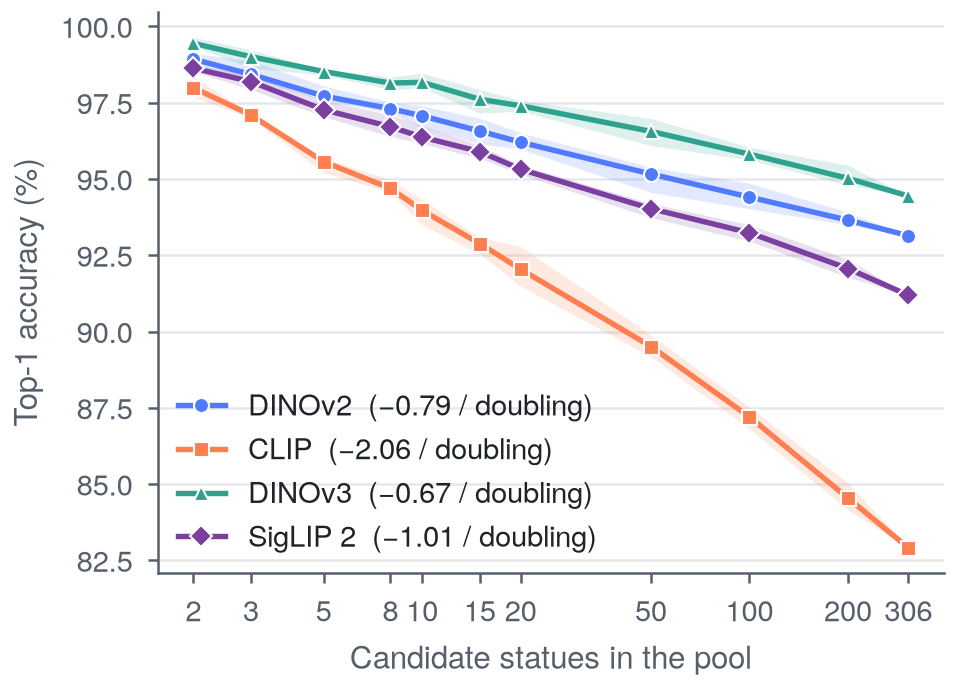
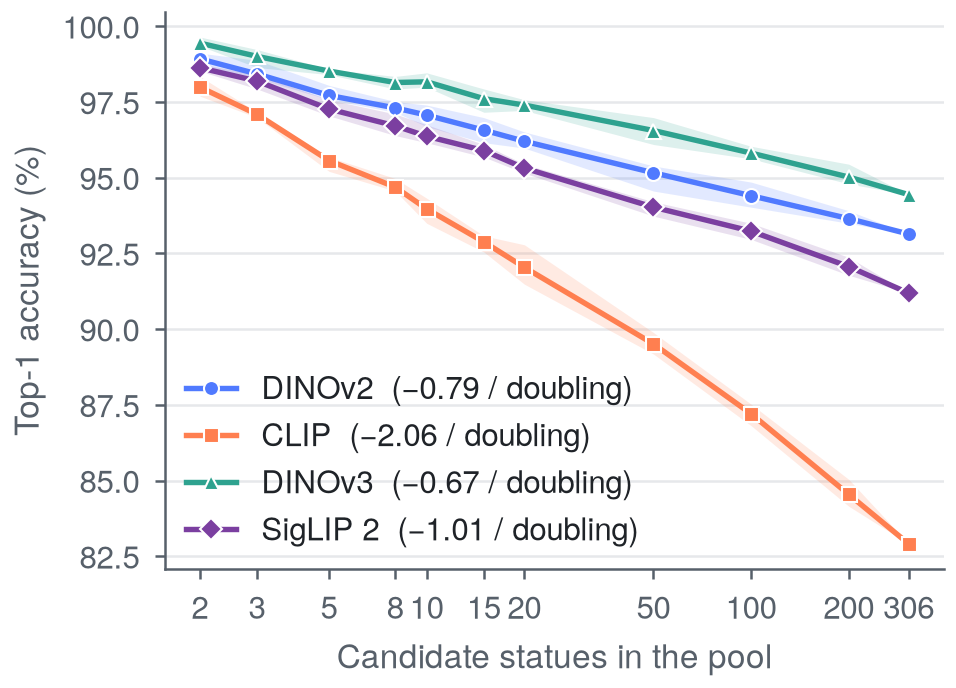
Qualify the project page's claims and enlarge figure type
The project page now says what its comparisons do not isolate: the backbone
comparison is not a test of the pretraining objective, the layout result does
not separate sculptural similarity from shared backgrounds or contributors,
and known acceptance includes incorrect identifications. The verification
card shows a table of held-out accuracy and paired statue-interval gains.
Wide figures scroll inside their card on narrow screens.

Publication figures use a type scale half a point larger. That pushed the
geography figure's legend onto its (a) tag, so the legend is now anchored at
the panel's left edge. The identifier describes proximity clusters without
claiming their members form one themed installation.

The explainer's pinned hash of docs/app.js is updated for that wording
change; the delivered film's receipt is untouched.

Claude-Session: https://claude.ai/code/session_01DeUKxRyMqr63ZbUEasCzMQ

Changed region(s): [[0.0, 0.0, 1.0, 0.9767], [0.9404, 0.2747, 0.9707, 0.3052]]

diff --git a/docs/index.html b/docs/index.html
@@ -88,7 +88,7 @@
   <section class="section project-band" id="abstract" aria-labelledby="abstract-heading">
     <div class="container is-max-desktop reading-width">
       <h2 class="title is-3" id="abstract-heading">Abstract</h2>
-      <div class="content abstract-text"><p>Instance retrieval benchmarks are dominated by landmarks, which are large and distinctive by design. We study the opposite case: objects made to look alike. We introduce Doppeldwarf-306: 1,691 openly licensed photographs of 306 bronze dwarf statues in Wrocław, Poland, many made in themed series that share one style, with the photographer of each image recorded. With no training, nearest-neighbour search over frozen features names the right statue first for up to 94.7% of queries. Across thirteen backbones from seven pretraining paradigms, models trained for invariant embeddings lead, while masked-prediction models (MAE, BEiT, I-JEPA) reach 55.6% at best under a fixed pooling rule. For DINOv2, accuracy falls slowly as more statues are added, by about 0.8 points each time the number of candidates doubles. A natural idea for a phone guide is to compare a photograph only with statues near the user. Surprisingly, in simulation this helps less than comparing it with the same number of statues chosen at random, because the few lookalikes that stand close together stay in a neighbourhood pool; a permutation test shows the penalty depends on the real layout (p = 0.005). Used as a weight instead of a filter, location raises accuracy from 93.4% to 98.7% for a simulated user 25 m from the statue. When the photographer is new, learned local-feature matching adds 2.5 to 3.6 points, and still helps DINOv3, while SIFT adds nothing measurable. Finally, comparing the two best candidates halves how often an unknown statue is wrongly accepted, for DINOv2 and DINOv3.</p></div>
+      <div class="content abstract-text"><p>Instance retrieval benchmarks are dominated by landmarks, which are large and distinctive by design. We study the opposite case: objects made to look alike. We introduce Doppeldwarf-306: 1,691 openly licensed photographs of 306 bronze dwarf statues in Wrocław, Poland, many made in themed series that share one style, with the photographer of each image recorded. With no training, nearest-neighbour search over frozen features names the right statue first for up to 94.7% of queries. Across thirteen backbones from seven pretraining paradigms, models trained for invariant embeddings lead, while masked-prediction models (MAE, BEiT, I-JEPA) reach 55.6% at best under a fixed pooling rule. For DINOv2, accuracy falls slowly as more statues are added, by about 0.8 points each time the number of candidates doubles. A natural idea for a phone guide is to compare a photograph only with statues near the user. Surprisingly, in simulation this helps less than comparing it with the same number of statues chosen at random, with confusions enriched among nearby statues; a permutation test shows the penalty depends on the real layout (p = 0.005). Used as a weight instead of a filter, location raises accuracy from 93.4% to 98.7% for a simulated user 25 m from the statue. When the photographer is new, learned local-feature matching adds 2.5 to 3.6 points, and still helps DINOv3, while SIFT adds nothing measurable. Finally, comparing the two best candidates halves how often an unknown statue is wrongly accepted, for DINOv2 and DINOv3.</p></div>
     </div>
   </section>
 
@@ -105,35 +105,47 @@
             <h3 class="title is-4">Accuracy falls slowly as candidates are added</h3>
             <p>DINOv2 loses 0.79 accuracy points per doubling of the candidate pool, reaching 93.1% top-1 across all 306 statues. CLIP loses 2.06 points per doubling, and its decline steepens as the pool grows.</p>
           </div>
-          <figure><a class="figure-link" href="figures/paper-pool-size.png" aria-label="Open the candidate-pool figure at full resolution"><img src="figures/paper-pool-size.png" width="956" height="688" loading="lazy" alt="Top-1 accuracy versus candidate-pool size for four frozen backbones, with decay per doubling stated in the legend."></a><figcaption>Each query is scored against its own statue plus N−1 random others, five seeds per size; the band is the spread across seeds.</figcaption></figure>
+          <figure><a class="figure-link" href="figures/paper-pool-size.png" aria-label="Open the candidate-pool figure at full resolution"><img src="figures/paper-pool-size.png" width="956" height="688" loading="lazy" alt="Top-1 accuracy versus candidate-pool size for four frozen backbones, with decay per doubling stated in the legend."></a><figcaption>Each query is scored against its own statue plus N−1 random others, five seeds per size; the band is the spread across seeds. <a class="figure-enlarge" href="figures/paper-pool-size.png">Open full-size figure ↗</a></figcaption></figure>
         </article>
         <article class="card result-card">
           <div class="card-content">
             <h3 class="title is-4">Location helps more as a weight than as a filter</h3>
-            <p>Nearby candidate pools are harder than random pools of the same size: a few close-standing lookalikes stay in the neighbourhood pool. Using distance as a soft weight instead raises DINOv2 from 93.4% to 98.7% for a simulated user 25 m from the statue. This experiment covers the 294 of 306 statues with coordinates, most derived from camera positions.</p>
+            <p>Nearby candidate pools are harder than random pools of the same size, and nearby statues are disproportionately confused. The layout matters, but this does not separate sculptural similarity from shared backgrounds or contributor patterns. Using distance as a soft weight instead raises DINOv2 from 93.4% to 98.7% for a simulated user 25 m from the statue. Unlike a hard filter, the soft weight uses distance to distinguish candidates within a neighbourhood. This experiment covers the 294 of 306 statues with coordinates, most derived from camera positions.</p>
           </div>
-          <figure><a class="figure-link" href="figures/paper-geography.png" aria-label="Open the geography figure at full resolution"><img src="figures/paper-geography.png" width="2007" height="622" loading="lazy" alt="Geographic minus random-pool accuracy by candidate-pool size, and the share of confused pairs within each distance band compared with all competing pairs."></a><figcaption><strong>(a)</strong> Top-1 of a pool of the query statue’s nearest neighbours minus an equal-sized random pool. <strong>(b)</strong> Pairs the retrieval confuses divided by pairs that merely compete, by separation; the dashed line is no enrichment.</figcaption></figure>
+          <figure class="wide-result-figure"><div class="figure-scroll" tabindex="0" role="region" aria-label="Scrollable geography figure"><a class="figure-link" href="figures/paper-geography.png" aria-label="Open the geography figure at full resolution"><img src="figures/paper-geography.png" width="2007" height="622" loading="lazy" alt="Geographic minus random-pool accuracy by candidate-pool size, and the share of confused pairs within each distance band compared with all competing pairs."></a></div><figcaption><span class="figure-scroll-hint">Swipe or scroll sideways to read each panel.</span> <strong>(a)</strong> Top-1 of a pool of the query statue’s nearest neighbours minus an equal-sized random pool. <strong>(b)</strong> Pairs the retrieval confuses divided by pairs that merely compete, by separation; the dashed line is no enrichment. <a class="figure-enlarge" href="figures/paper-geography.png">Open full-size figure ↗</a></figcaption></figure>
         </article>
         <article class="card result-card">
           <div class="card-content">
-            <h3 class="title is-4">Pretraining decides most of the outcome</h3>
-            <p>Across thirteen frozen backbones in seven pretraining paradigms, models trained for invariant embeddings lead, with C-RADIOv3 reaching 94.7% top-1. Masked-prediction models MAE, BEiT and I-JEPA fail as frozen retrieval features under the fixed pooling rule, reaching only 47–56%.</p>
+            <h3 class="title is-4">Invariance-trained checkpoints lead this comparison</h3>
+            <p>Across thirteen frozen backbones in seven pretraining paradigms, models trained for invariant embeddings lead, with C-RADIOv3 reaching 94.7% top-1. Masked-prediction models MAE, BEiT and I-JEPA fail as frozen retrieval features under the fixed pooling rule, reaching only 47–56%. Training data, model size and preprocessing also differ, so this comparison does not isolate the pretraining objective.</p>
           </div>
-          <figure><a class="figure-link" href="figures/paper-family.png" aria-label="Open the backbone-family figure at full resolution"><img src="figures/paper-family.png" width="2007" height="825" loading="lazy" alt="Thirteen frozen backbones grouped by seven pretraining paradigms, compared on retrieval, new-photographer queries and unknown-statue rejection."></a><figcaption><strong>(a)</strong> Top-1 over all 306 statues. <strong>(b)</strong> Accuracy change per doubling of the pool. <strong>(c)</strong> Geographic minus random top-1 at a pool of ten. <strong>(d)</strong> Accuracy lost to the photographer beyond the size-matched control. <strong>(e)</strong> Rejection AUROC of the margin score. Bars are 95% intervals from resampling whole statues.</figcaption></figure>
+          <figure class="wide-result-figure"><div class="figure-scroll" tabindex="0" role="region" aria-label="Scrollable backbone comparison figure"><a class="figure-link" href="figures/paper-family.png" aria-label="Open the backbone-family figure at full resolution"><img src="figures/paper-family.png" width="2007" height="885" loading="lazy" alt="Thirteen frozen backbones grouped by seven pretraining paradigms, compared on retrieval, new-photographer queries and unknown-statue rejection."></a></div><figcaption><span class="figure-scroll-hint">Swipe or scroll sideways to read each panel.</span> <strong>(a)</strong> Top-1 over all 306 statues. <strong>(b)</strong> Accuracy change per doubling of the pool. <strong>(c)</strong> Geographic minus random top-1 at a pool of ten. <strong>(d)</strong> Accuracy lost to the photographer beyond the size-matched control. <strong>(e)</strong> Rejection AUROC of the margin score. Bars are 95% intervals from resampling whole statues. <a class="figure-enlarge" href="figures/paper-family.png">Open full-size figure ↗</a></figcaption></figure>
         </article>
         <article class="card result-card">
           <div class="card-content">
             <h3 class="title is-4">Learned verification helps where SIFT does not</h3>
             <p>With the query’s photographer withheld, DISK+LightGlue and LoFTR lift DINOv2 top-1 from 81.8% to 84.4% and 85.5%, with weights chosen on held-out statues. SIFT adds nothing measurable; learned verification still adds 2.0 points on DINOv3.</p>
           </div>
-          <figure><a class="figure-link" href="figures/paper-matcher.png" aria-label="Open the local-matcher figure at full resolution"><img src="figures/paper-matcher.png" width="956" height="688" loading="lazy" alt="Cross-photographer top-1 accuracy as geometry receives more weight: SIFT declines sharply, while DISK+LightGlue holds up; a dashed line marks first-stage recall at ten."></a><figcaption>The exploratory weight sweep, scored on the same queries that would choose a weight, so its peaks are in-sample. The numbers above use weights chosen on held-out statues.</figcaption></figure>
+          <div class="verification-results">
+            <table class="verification-table">
+              <caption>Held-out verification · DINOv2</caption>
+              <thead><tr><th scope="col">Method</th><th scope="col">Top-1</th><th scope="col">Gain (points)<br><span class="interval-label">[95% interval]</span></th></tr></thead>
+              <tbody>
+                  <tr><th scope="row">Cosine</th><td>81.8%</td><td>—</td></tr>
+                  <tr><th scope="row">+ SIFT</th><td>82.1%</td><td>+0.3<span class="gain-interval">[−0.4, 0.9]</span></td></tr>
+                  <tr><th scope="row">+ DISK+LightGlue</th><td>84.4%</td><td>+2.5<span class="gain-interval">[1.3, 3.9]</span></td></tr>
+                  <tr><th scope="row">+ LoFTR</th><td>85.5%</td><td>+3.6<span class="gain-interval">[2.2, 5.2]</span></td></tr>
+              </tbody>
+            </table>
+            <p>1,157 queries over 181 statues, with the query’s photographer withheld. Each blend weight is chosen on the other four statue folds. Gain intervals resample whole statues, paired against cosine.</p>
+          </div>
         </article>
         <article class="card result-card">
           <div class="card-content">
             <h3 class="title is-4">Rejection needs a margin</h3>
-            <p>A high similarity alone is weak evidence that a statue is known when the pool contains many lookalikes. At 90% known-statue acceptance, comparing the best two statues lowers false acceptance from 38.3% to 19.6% for DINOv2 and from 21.6% to 7.7% for DINOv3.</p>
+            <p>A high similarity alone is weak evidence that a statue is known when the pool contains many lookalikes. At 90% known-statue acceptance, comparing the best two statues lowers false acceptance from 38.3% to 19.6% for DINOv2 and from 21.6% to 7.7% for DINOv3. Known acceptance includes incorrect identifications; this is not a measured street-use reliability rate.</p>
           </div>
-          <figure><a class="figure-link" href="figures/paper-rejection.png" aria-label="Open the rejection figure at full resolution"><img src="figures/paper-rejection.png" width="956" height="593" loading="lazy" alt="Unknown-statue false acceptance at 90% known-statue acceptance for four backbones: margin bars are lower than cosine-similarity bars."></a><figcaption>Unknown statues wrongly accepted when 90% of known statues are accepted, with thresholds calibrated leave-one-class-out.</figcaption></figure>
+          <figure><a class="figure-link" href="figures/paper-rejection.png" aria-label="Open the rejection figure at full resolution"><img src="figures/paper-rejection.png" width="956" height="593" loading="lazy" alt="Unknown-statue false acceptance at 90% known-statue acceptance for four backbones: margin bars are lower than cosine-similarity bars."></a><figcaption>Unknown statues wrongly accepted when 90% of known statues are accepted, with thresholds calibrated leave-one-class-out. <a class="figure-enlarge" href="figures/paper-rejection.png">Open full-size figure ↗</a></figcaption></figure>
         </article>
       </div>
       <p class="results-note">These are research-pipeline measurements. The <a href="demo.html">identifier</a> reports its own measurements on the browser vectors it ships. Street photographs remain an unmeasured domain gap.</p>
@@ -149,7 +161,7 @@
         <div><strong>294</strong><span>placed on the map</span></div>
       </div>
       <div class="content">
-        <p>Every image carries its source, photographer, licence and licence URL. Coverage follows usable photographs rather than geography; each statue has at least three references. Coordinates are recorded as Wikidata positions or positions derived from Commons camera metadata.</p>
+        <p>Every image carries its source, photographer, licence and licence URL. Coverage is limited to the discovered Commons categories whose direct files pass the review and image filters; each included statue has at least three references. Coordinates are recorded as Wikidata positions or positions derived from Commons camera metadata.</p>
         <p>The photographs retain their individual terms: <strong>CC BY-SA</strong> (1,577), <strong>CC BY</strong> (55), <strong>public domain</strong> (52) and <strong>CC0</strong> (7). Per-file attribution and modification records accompany the dataset.</p>
         <p>The statues are contemporary sculptures by living artists, protected independently of the photographs. Wikimedia Commons hosts these photographs under Poland’s freedom-of-panorama provision for works permanently displayed in public places. The United States, where the dataset platforms are hosted, has no equivalent exemption for sculpture. The photographers’ Creative Commons licences cover the photographs and cannot grant rights in the sculptures depicted; reuse requiring the sculptor’s permission still requires it.</p>
         <p>Removal requests from sculptors, photographers, rights-holders, their representatives or people depicted are honoured without requiring a legal argument. <a href="https://github.com/turhancan97/krasnal-id/issues">Open an issue</a>; the photograph is excluded through <code>data/image-review.json</code>, the affected artifacts are rebuilt, and the dataset is updated.</p>

diff --git a/docs/style.css b/docs/style.css
@@ -453,3 +453,28 @@ footer .repo{font-family:"IBM Plex Mono",monospace; font-size:.81rem}
   .identifier-page .models{display:flex; width:100%}
   .identifier-page .model{flex:1; flex-direction:column; align-items:center; gap:.1rem; padding:.45rem .5rem}
 }
+
+/* Wide research panels keep readable labels on narrow screens. */
+.figure-scroll{max-width:100%; overflow-x:auto; overscroll-behavior-x:contain}
+.figure-scroll:focus-visible{outline:2px solid var(--link); outline-offset:-2px}
+.figure-scroll-hint{display:none}
+.figure-enlarge{display:block; margin-top:.55rem; width:fit-content}
+.verification-results{padding:0 1.8rem 1.4rem}
+.verification-table{width:100%; border-collapse:collapse; color:var(--ink);
+  font-variant-numeric:tabular-nums; font-size:.95rem}
+.verification-table caption{text-align:left; font-weight:600; margin-bottom:.8rem}
+.verification-table th,.verification-table td{padding:.7rem .4rem; border-bottom:1px solid var(--rule);
+  text-align:right; vertical-align:middle}
+.verification-table th:first-child{text-align:left; padding-left:0}
+.verification-table thead th{font-weight:600; font-size:.85rem}
+.verification-table tbody th{font-weight:500}
+.gain-interval{display:block; color:var(--ink-2); font-size:.85em}
+.interval-label{font-weight:400}
+.verification-results>p{margin-top:1rem; font-size:.85rem; line-height:1.6}
+@media(max-width:600px){
+  .wide-result-figure .figure-link{min-width:800px}
+  .figure-scroll-hint{display:block; margin-bottom:.5rem; color:var(--ink); font-weight:600}
+  .verification-results{padding:0 1.1rem 1.2rem}
+  .verification-table{font-size:.85rem}
+  .verification-table thead th{font-size:.75rem}
+}

diff --git a/docs/app.js b/docs/app.js
@@ -242,7 +242,7 @@ function renderHits(hits) {
   });
 }
 
-/** Flag the finding: a top match inside a co-located group is the hard case. */
+/** Flag proximity clusters without inferring a shared theme or exact position. */
 function renderCoLocated(hits) {
   const box = el("colocated");
   const top = hits[0]?.image.dwarf;
@@ -253,9 +253,9 @@ function renderCoLocated(hits) {
   }
   const names = new Map(meta.dwarfs.map((d) => [d.id, d.name]));
   const others = group.filter((id) => id !== top).map((id) => names.get(id));
-  el("colocated-text").innerHTML =
-    `<b>Hard case.</b> It stands with ${others.join(", ")} as one themed group, ` +
-    `and location cannot tell them apart.`;
+  el("colocated-text").textContent =
+    `Nearby statues. This match belongs to a mapped proximity cluster with ${others.join(", ")}. ` +
+    `Location alone may not distinguish them.`;
   box.hidden = false;
 }
 

diff --git a/src/krasnal_id/viz/paper_figures.py b/src/krasnal_id/viz/paper_figures.py
@@ -12,7 +12,7 @@ to the paper at least as strongly as it applies to the repository.
 Every figure is drawn by `krasnal_id.viz.figure_style`: one palette in which colour
 follows the entity, one sans face (TeX Gyre Heros, vendored), one type scale, and
 widths that match the page it is printed on, so no figure is ever scaled and every
-7 pt label prints at 7 pt. A `Layout` picks those widths and which backbones a
+7.5 pt label prints at 7.5 pt. A `Layout` picks those widths and which backbones a
 figure shows; the journal draft keeps its own, unchanged.
 """
 
@@ -307,14 +307,17 @@ def dataset_figure(sources: Sources, output: Path, layout: Layout = JOURNAL) -> 
         box_r = right.get_window_extent().transformed(to_figure)
         x = (box_l.x1 + box_r.x0) / 2
         y = (box_l.y0 + box_l.y1) / 2
-        for text, offset, colour in ((above, 0.022, style.INK), (below, -0.022, style.INK_MUTED)):
+        for text, offset, colour in (
+            (above, 0.022, style.INK),
+            (below, -0.022, style.INK_SECONDARY),
+        ):
             figure.text(
                 x,
                 y + offset,
                 text,
                 ha="center",
                 va="bottom" if offset > 0 else "top",
-                fontsize=style.SIZE_ANNOTATION - 0.5,
+                fontsize=style.SIZE_ANNOTATION,
                 color=colour,
                 in_layout=False,
             )
@@ -444,7 +447,7 @@ def _confused_pairs_panel(
             # truncation drops (Solne, Oławskie), and one line overflows a thumbnail.
             cell.set_xlabel(
                 "\n".join(textwrap.wrap(name, 13)),
-                fontsize=style.SIZE_ANNOTATION - 0.5,
+                fontsize=style.SIZE_ANNOTATION,
                 color=style.INK_SECONDARY,
                 labelpad=1.5,
             )
@@ -537,7 +540,7 @@ def _placement_panel(panel: Any, sources: Sources, manifest: DatasetManifest) ->
             ),
         ],
         loc="lower right",
-        fontsize=style.SIZE_ANNOTATION - 0.5,
+        fontsize=style.SIZE_ANNOTATION,
         frameon=False,
         handletextpad=0.2,
         borderaxespad=0.1,
@@ -585,7 +588,7 @@ def _placement_panel(panel: Any, sources: Sources, manifest: DatasetManifest) ->
         "\n".join(f"{radius:.0f} m \N{RIGHTWARDS ARROW} {pool} statues" for pool, radius in radii),
         transform=axes.transAxes,
         va="top",
-        fontsize=style.SIZE_ANNOTATION - 0.5,
+        fontsize=style.SIZE_ANNOTATION,
         color=style.INK,
         bbox={"facecolor": "white", "edgecolor": "none", "pad": 0.8, "alpha": 0.85},
     )
@@ -667,7 +670,7 @@ def _photographer_panel(panel: Any, manifest: DatasetManifest) -> None:
         transform=axes.transAxes,
         ha="right",
         va="top",
-        fontsize=style.SIZE_ANNOTATION - 0.5,
+        fontsize=style.SIZE_ANNOTATION,
         color=style.INK_MUTED,
     )
     _subfigure_tag(panel, "c")
@@ -752,7 +755,15 @@ def geography_figure(sources: Sources, output: Path, layout: Layout = JOURNAL) -
     left.set_ylabel(style.minus("Geographic - random (points)"))
     # Above the plot: the three curves cross the whole plotting area between them,
     # so no corner inside it is clear of a line.
-    left.legend(loc="lower center", bbox_to_anchor=(0.5, 1.0), ncol=len(present_geo))
+    # Anchored at the left edge, clear of the (a) tag, which the centred legend overprinted
+    # once the type scale grew; tighter columns keep four entries inside the panel.
+    left.legend(
+        loc="lower left",
+        bbox_to_anchor=(0.03, 1.0),
+        ncol=len(present_geo),
+        columnspacing=1.0,
+        handlelength=1.6,
+    )
     style.panel_tag(left, "a")
 
     enriched = _measured(sources, layout, "confusion-{backbone}")

diff --git a/src/krasnal_id/viz/figure_style.py b/src/krasnal_id/viz/figure_style.py
@@ -24,7 +24,7 @@ highlights, never for thin lines or small points.
 **Figures are drawn at the size they are printed.** The short-paper author kit's text block is
 17 cm wide with a 0.8 cm gutter, so a column is 8.1 cm and the full width 17 cm.
 A figure drawn at those widths and placed at ``\\linewidth`` is never scaled, so
-the 7 pt tick labels below really are 7 pt on the page, in every figure.
+the 7.5 pt tick labels below really are 7.5 pt on the page, in every figure.
 """
 
 from dataclasses import dataclass
@@ -75,10 +75,10 @@ WRONG = INK_MUTED  # a wrong one, always with a cross
 
 # --- type scale (points) ----------------------------------------------------
 FONT_FAMILY = "TeX Gyre Heros"
-SIZE_TICK = 7.0
-SIZE_LABEL = 7.5
-SIZE_LEGEND = 7.0
-SIZE_ANNOTATION = 6.5
+SIZE_TICK = 7.5
+SIZE_LABEL = 8.0
+SIZE_LEGEND = 7.5
+SIZE_ANNOTATION = 7.0
 SIZE_PANEL = 8.5  # the bold (a), (b) tags
 
 # --- marks ------------------------------------------------------------------

diff --git a/src/krasnal_id/viz/family_plot.py b/src/krasnal_id/viz/family_plot.py
@@ -81,7 +81,7 @@ PANELS: tuple[Panel, ...] = (
     Panel("points_per_doubling", "Change per\ndoubling (points)", scale=1.0, zero_line=True),
     Panel("geo_minus_random_pool_10", "Location \u2212 random,\npool 10 (points)", zero_line=True),
     Panel("photographer_attributable", "Photographer\neffect (points)", zero_line=True),
-    Panel("reject_margin_auroc", "Rejection AUROC\n(margin score)", scale=1.0),
+    Panel("reject_margin_auroc", "Margin-score\nAUROC", scale=1.0),
 )
 
 
@@ -141,8 +141,8 @@ def render_family_figure(
     laid_out = rows()
     models = [model for _, model in laid_out if model is not None]
     estimates = collect(metrics, models)
-    height = 0.115 * len(laid_out) + 0.45
-    label_share = 0.17
+    height = 0.125 * len(laid_out) + 0.45
+    label_share = 0.20
     figure = plt.figure(figsize=(width, height), layout="constrained")
     grid = figure.add_gridspec(
         1,

diff --git a/AGENTS.md b/AGENTS.md
@@ -797,6 +797,17 @@ already on screen rather than asking for it again.
   sweep while its card quotes held-out numbers; the caption says so. Editing `RESULTS.md` changes
   the hash `video/explainer/claims.json` pins: re-pin it only after checking that the pool-size
   table the explainer parses is unchanged, and leave the delivered film's receipt alone.
+- **The verification card is a table, not a figure** (2026-11-10): held-out top-1 and paired
+  statue-interval gains for cosine, SIFT, DISK+LightGlue and LoFTR, typed to match the
+  generated macros the paper uses. `paper-matcher.png` stays a byte copy but the page no longer shows it.
+  Wide figures scroll inside their card on narrow screens and carry a full-size link. The cards
+  qualify their claims the way the paper does: the backbone comparison does not isolate the
+  pretraining objective, the layout result does not separate sculptural similarity from shared
+  backgrounds or contributors, and known acceptance includes incorrect identifications.
+- **A larger type scale can collide a legend with a panel tag, silently.** The geography figure's
+  centred legend overprinted "(a)" after the scale grew; it is now anchored left of centre with
+  tighter columns. Look at every regenerated figure, as §7.14 says. Changing `docs/app.js` also
+  changes a hash `video/explainer/claims.json` pins, like `RESULTS.md`'s above.
 - **There is one written research record.** `RESULTS.md` remains complete; the project page is
   a concise introduction rather than a second copy. `findings.html` redirects immediately to
   `index.html` with a canonical link and visible fallback. `docs/chart.js` is deleted with no
@@ -886,7 +897,9 @@ already on screen rather than asking for it again.
   its height before the library loads; map failure leaves the photograph results usable.
   Top-five placed matches have numbered markers, mustard for rank one, solid round markers
   for Wikidata and dashed squares for positions estimated from photographs. A shaded halo,
-  group count and context markers expose the existing co-location warning's group; the map
+  group count and context markers expose the existing co-location note's group (worded since
+  2026-11-10 as a mapped proximity cluster that location alone may not distinguish, with no claim
+  that its members form one themed installation); the map
   does not pretend overlapping statues are one. An opted-in, usable user fix is a local blue
   marker. Standard OpenStreetMap tiles carry visible contributor attribution. The privacy text
   explicitly distinguishes photographs and exact GPS (kept local) from tile requests, which
@@ -1642,7 +1655,8 @@ every paper figure and both retrieval sheets read from it.
   glyph and matplotlib silently substituted a wrong one.
 - **Figures are drawn at the size they print and placed unscaled.** The author kit's column is
   8.1 cm and its text block 17 cm; `save` never uses `bbox_inches="tight"`, which crops and so gets
-  rescaled by `\linewidth`. So 7 pt ticks are 7 pt on the page in every figure. The top-5 sheet
+  rescaled by `\linewidth`. So 7.5 pt ticks are 7.5 pt on the page in every figure (the scale
+  was raised by half a point on 2026-11-10: ticks and legends 7.5, labels 8, annotations 7). The top-5 sheet
   is drawn at 13.6 cm through `--width-cm` because at 17 cm it is taller than the page; a narrower
   sheet is drawn narrower, never scaled.
 - **One typeface: TeX Gyre Heros, vendored** in `viz/fonts/` under the GUST Font License, so a

diff --git a/CHANGELOG.md b/CHANGELOG.md
@@ -10,8 +10,18 @@ rather than a build-order stage, so `0.4.0` is open-set rejection.
 
 ## [Unreleased]
 
+### Changed
+
+- The project page qualifies the pretraining and geographic comparisons and distinguishes known-query acceptance from correct identification. Its verification card now shows held-out accuracy and paired statue-bootstrap gain intervals from the stored results.
+- Wide project-page figures scroll independently on mobile and have explicit full-size links. Publication plots use larger labels; the backbone comparison reserves more space for model names and rows.
+
 ### Fixed
 
+- The identifier describes coordinate-based proximity clusters without claiming that their members form one themed installation or cannot be distinguished by location.
+- The geography figure's "(a)" tag overprinted its legend once the plot type grew. The legend is
+  now anchored at the panel's left edge, clear of the tag.
+- `video/explainer/claims.json` re-pins the `docs/app.js` hash after the identifier's wording
+  change above; the delivered film's receipt keeps the hash it was built from.
 - `RESULTS.md` reported DINOv2's phone-against-camera gap as 5.3 top-1 points; the artifact gives
   93.48% against 88.24%, which is 5.2. It also carried "131" cross-label duplicate files, which
   traces to no artifact: `data/discovery/fetch-audit.json` records 36 files (87 copies under 24
